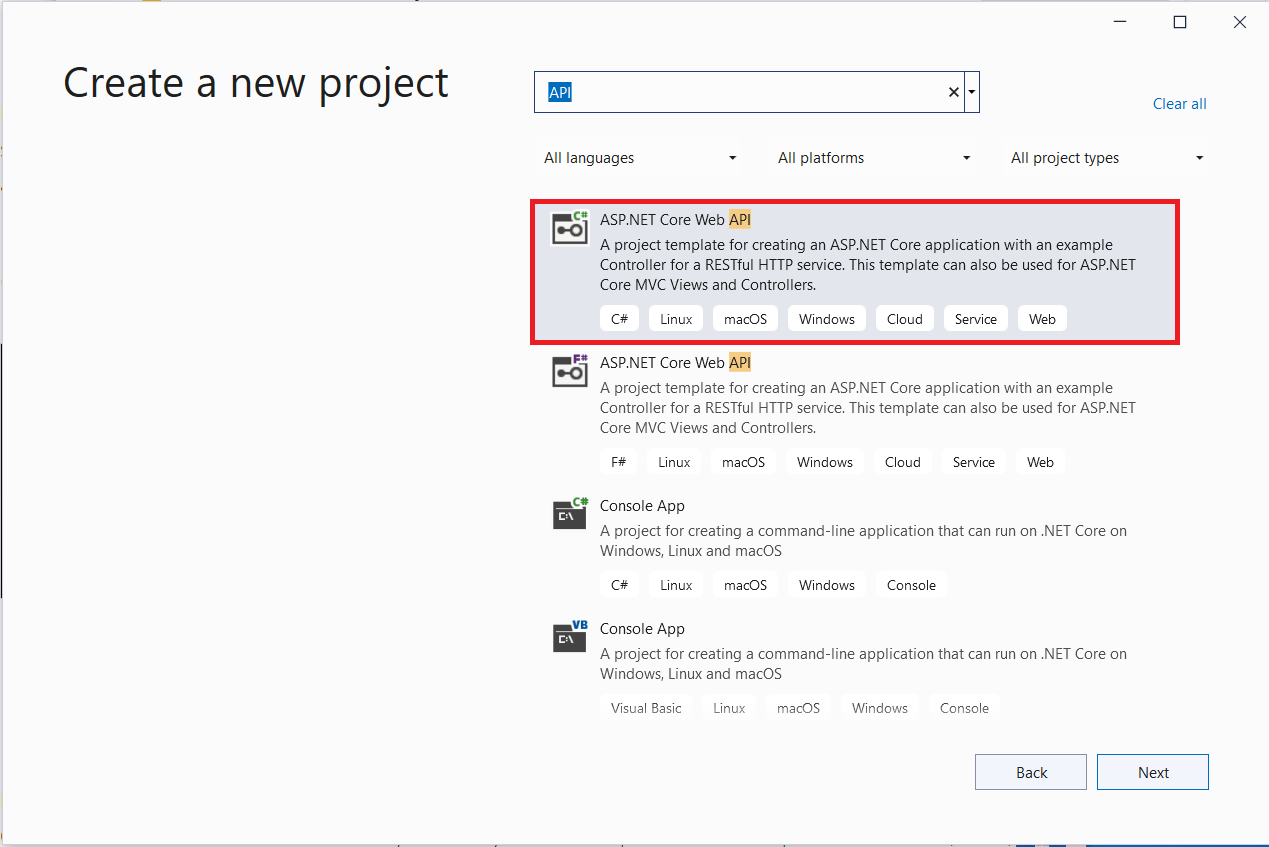
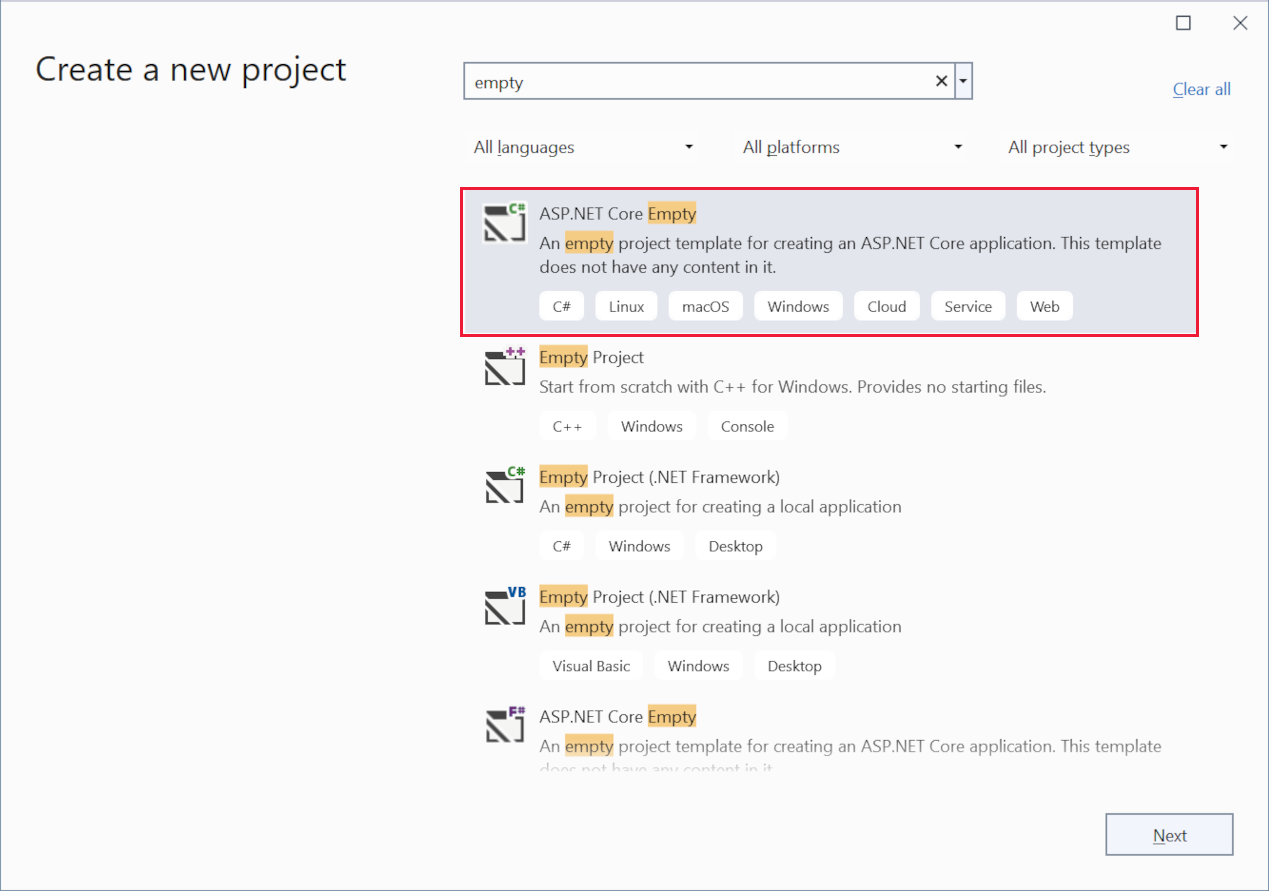
Update MinAPI for macOS

diff --git a/aspnetcore/tutorials/min-web-api.md b/aspnetcore/tutorials/min-web-api.md
@@ -3,7 +3,7 @@ title: "Tutorial: Create a minimal web API with ASP.NET Core"
 author: rick-anderson
 description: Learn how to build a minimal web API with ASP.NET Core.
 ms.author: riande
-ms.date: 09/26/2022
+ms.date: 10/23/2022
 monikerRange: '>= aspnetcore-6.0'
 uid: tutorials/min-web-api
 ---
@@ -305,7 +305,7 @@ This tutorial uses Postman to test the API.
 
 The following instructions post data to the app:
 
-  * Create a new request.
+  * Create a new HTTP request.
   * Set the HTTP method to `POST`.
   * Set the URI to `https://localhost:<port>/todoitems`. For example: `https://localhost:5001/todoitems`
   * Select the **Body** tab.
@@ -357,7 +357,7 @@ The call to `GET /todoitems` produces a response similar to the following:
 
 ### Test the GET endpoints with Postman
 
-* Create a new request.
+* Create a new HTTP request.
 * Set the HTTP method to **GET**.
 * Set the request URI to `https://localhost:<port>/todoitems`. For example, `https://localhost:5001/todoitems`.
 * Select **Send**.
@@ -562,12 +562,15 @@ This tutorial creates the following API:
 
   ![macOS New solution](first-web-api-mac/_static/6/sln.png)
 
-* Select **Web and Console** > **App** > **Empty** > **Continue**.
+* In the **Choose a template for your new project** dialog:
+  * Select **Web and Console** > **App** > **Empty**.
+  * Select **Continue**.
 
 * Make the following selections:
-  * **Target framework:** .NET 7.x (or more recent). 
+  * **Target framework:** .NET 7.x (or more recent).
   * **Configure for HTTPS**: Check
-  * Select **Next**.
+  * **Do not use top-level statements**: Uncheck
+  * Select **Continue**.
 
 * Enter the following:
   * **Project name:** TodoApi
@@ -681,7 +684,8 @@ This tutorial uses Postman to test the API.
 * Start the web app.
 * Start Postman.
 * Disable **SSL certificate verification**
-  * From **File** > **Settings** (**General** tab), disable **SSL certificate verification**.
+  * For Postman for Windows, Select **File** > **Settings** (**General** tab), disable **SSL certificate verification**.
+  * For Postman for macOS, Select **Postman** > **Preferences** (**General** tab), disable **SSL certificate verification**.
     > [!WARNING]
     > Re-enable SSL certificate verification after testing the sample app.
 
@@ -697,7 +701,7 @@ Run the app. The browser displays a 404 error because there is no longer a `/` e
 
 Use the POST endpoint to add data to the app:
 
-* Create a new request.
+* Create a new HTTP request.
 * Set the HTTP method to `POST`.
 * Set the URI to `https://localhost:<port>/todoitems`. For example: `https://localhost:5001/todoitems`
 * Select the **Body** tab.
@@ -729,7 +733,7 @@ The sample app implements several GET endpoints by calling `MapGet`:
 
 Test the app by calling the endpoints from a browser or Postman. The following steps are for Postman.
 
-* Create a new request.
+* Create a new HTTP request.
 * Set the HTTP method to **GET**.
 * Set the request URI to `https://localhost:<port>/todoitems`. For example, `https://localhost:5001/todoitems`.
 * Select **Send**.
